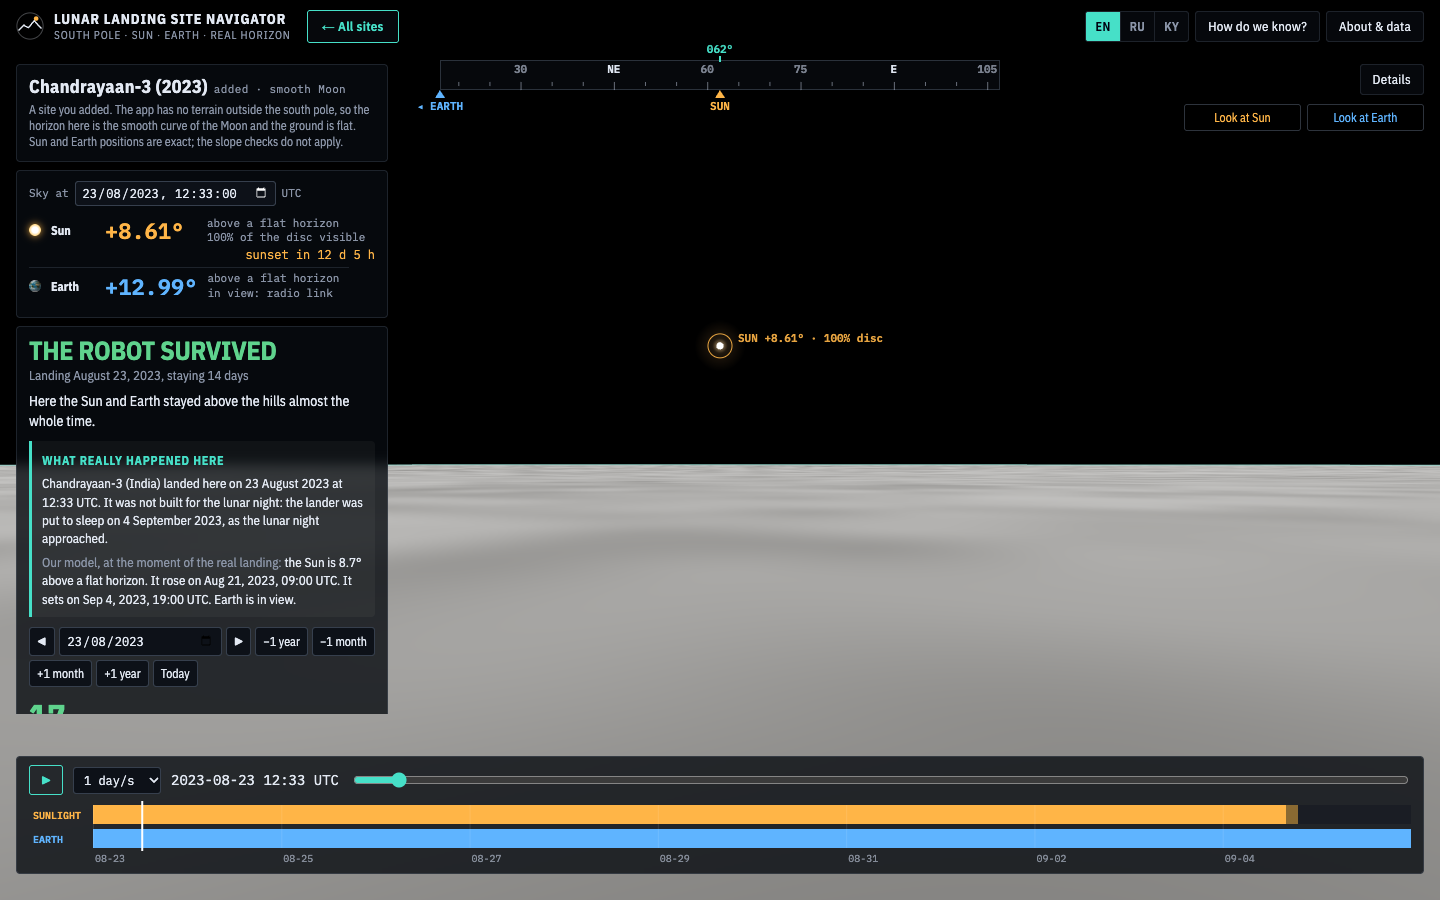
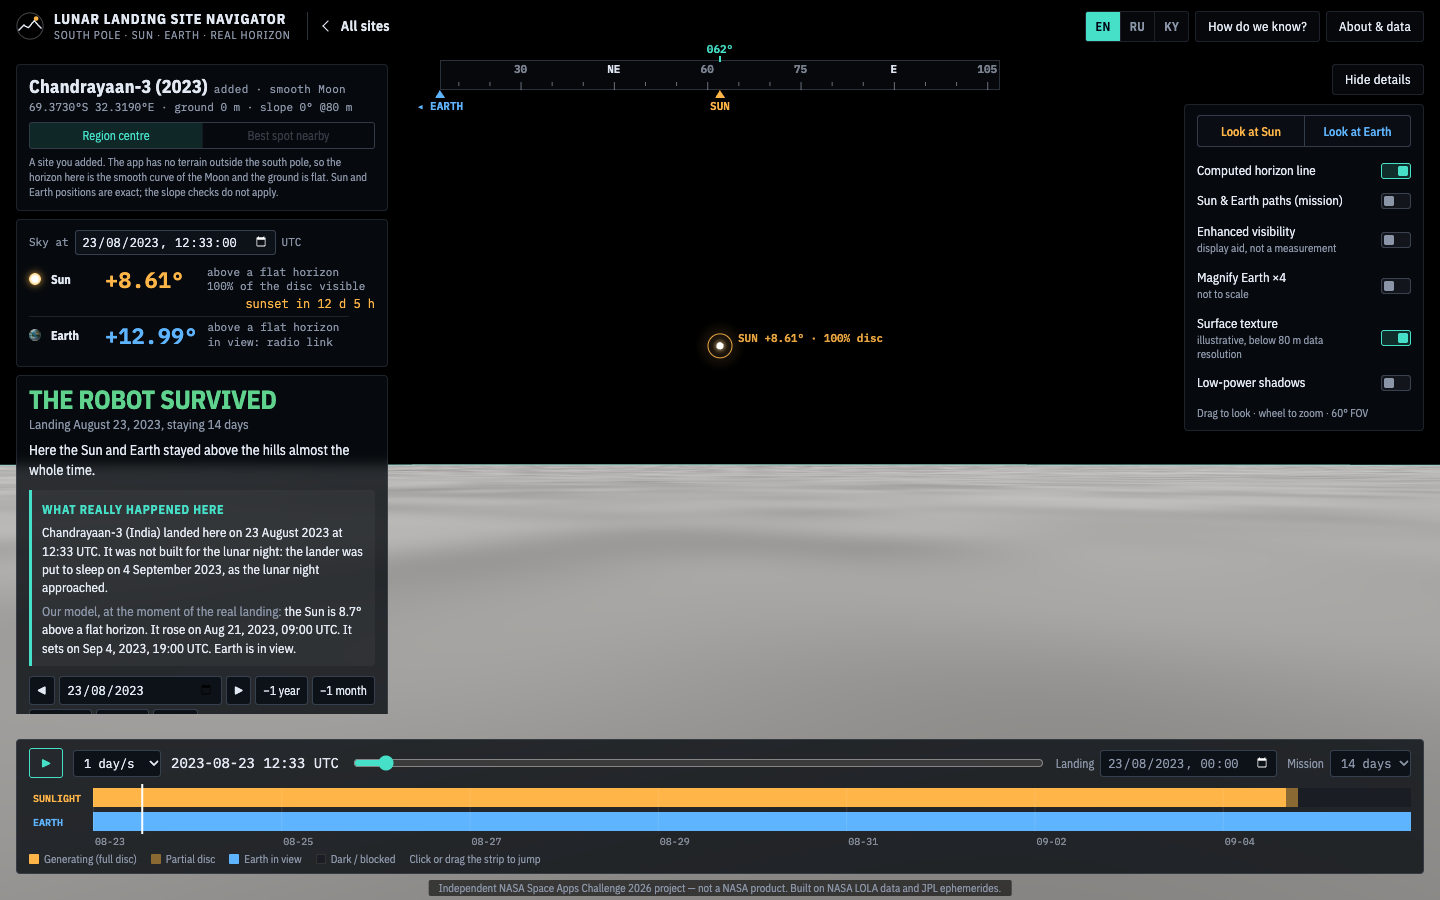
Dots on the Moon follow the day under the time line; details open by default with a close button; view options as switches, plain back control, joined look buttons, focus rings; phone top bar and Details button clear of the dock; smoke checks for both

diff --git a/app/css/app.css b/app/css/app.css
@@ -200,7 +200,7 @@ table.t tr.sub td { color: var(--muted); font-size: 12px; }
 /* ---------- team merge: the answer panel, and a calm default (his full HUD is one "Details" click away) ---------- */
 #hud { width: 372px; max-height: calc(100vh - 250px); overflow: auto; }
 #more { position: fixed; right: 16px; top: 64px; z-index: 30; }
-html.min #viewtools { top: 104px; }
+#viewtools { top: 104px; } /* always under the Details button, open or closed */
 html.min .hud-time, html.min .hb-grid, html.min .coords, html.min #h-variant-note, html.min .tog, html.min .vt-hint, html.min #disclaimer, html.min .legend { display: none !important; }
 html.min #hud .hud-block { padding: 8px 12px; }
 html.min #viewtools { background: none; border: 0; padding: 0; width: 240px; }
@@ -313,7 +313,9 @@ body.mode-surface .skymark { display: none !important; }
 .skymark.sun::before { background: radial-gradient(#fff 40%, #fff3c4 75%); box-shadow: 0 0 10px 2px #fff; }
 .skymark.earth::before { background: url(../data/earth.jpg) 38% 50% / 200% 100%; box-shadow: inset -4px -2px 5px rgba(0,0,0,.65); }
 /* a way back that says where it goes; panels that scroll show it */
-#back { border-color: var(--teal); color: var(--teal); font-weight: 600; padding: 7px 14px; }
+#back { display: inline-flex; align-items: center; gap: 9px; background: none; border: 0; border-left: 1px solid var(--line-2); border-radius: 0; padding: 5px 4px 5px 16px; color: var(--text); font-size: 14px; font-weight: 600; letter-spacing: .02em; white-space: nowrap; transition: color .15s; }
+#back::before { content: ""; width: 7px; height: 7px; border-left: 1.5px solid currentColor; border-bottom: 1.5px solid currentColor; transform: rotate(45deg); transition: transform .15s; }
+#back:hover { background: none; color: var(--teal); } #back:hover::before { transform: translateX(-3px) rotate(45deg); }
 #hud, #sitelist, #panel { scrollbar-width: thin; scrollbar-color: rgba(70,224,200,.7) rgba(255,255,255,.06); }
 #hud { overflow-y: scroll; }
 #hud::-webkit-scrollbar, #sitelist::-webkit-scrollbar { width: 10px; }
@@ -342,3 +344,21 @@ body.mode-surface .skymark { display: none !important; }
 .v-hist b { font-size: 12px; letter-spacing: .06em; text-transform: uppercase; color: var(--teal); }
 .verdict .v-hist p { margin: 6px 0 0; font-size: 13px; } .v-hist .v-model em { font-style: normal; color: var(--muted); }
 .v-hist button { margin-top: 8px; background: #0d1118; color: inherit; border: 1px solid var(--teal); border-radius: 3px; padding: 5px 8px; font: inherit; font-size: 12px; cursor: pointer; }
+
+/* ---------- controls: one shape (3 px corners), one accent (teal) ---------- */
+/* View options are switches, label first: on is a teal block moved to the right, so state reads without the colour. */
+.vt-row { gap: 0; margin-bottom: 6px; border: 1px solid var(--line-2); border-radius: 3px; overflow: hidden; background: var(--panel-solid); }
+.vt-row button { border: 0; border-radius: 0; padding: 7px 4px; font-size: 12.5px; font-weight: 500; }
+.vt-row button + button { border-left: 1px solid var(--line-2); }
+.tog { display: grid; grid-template-columns: 1fr auto; align-items: center; gap: 12px; padding: 4px 0; line-height: 1.25; }
+.tog em { margin-top: 2px; }
+.tog input { order: 2; appearance: none; -webkit-appearance: none; margin: 0; width: 30px; height: 16px; border: 1px solid var(--line-2); border-radius: 3px; background: rgba(150,170,200,.08); position: relative; cursor: pointer; transition: background .15s, border-color .15s; }
+.tog input::before { content: ""; position: absolute; left: 2px; top: 2px; width: 10px; height: 10px; border-radius: 2px; background: var(--muted); transition: transform .15s, background .15s; }
+.tog input:checked { background: rgba(70,224,200,.16); border-color: var(--teal); }
+.tog input:checked::before { transform: translateX(14px); background: var(--teal); }
+.tog:hover input { border-color: var(--teal); }
+button:active { transform: translateY(1px); }
+button:focus-visible, input:focus-visible, select:focus-visible, summary:focus-visible { outline: 2px solid var(--teal); outline-offset: 2px; }
+@media (prefers-reduced-motion: reduce) { .tog input, .tog input::before, #back, #back::before { transition: none; } button:active { transform: none; } }
+/* phone: the way back stays on one line without squeezing the title, and the Details button sits clear above the dock */
+@media (max-width: 760px) { #topbar { gap: 8px; } #back { border-left: 0; padding: 5px 0; font-size: 13px; gap: 6px; } #more { bottom: 262px; } html.min #more { bottom: 192px; } }

diff --git a/app/i18n.js b/app/i18n.js
@@ -50,7 +50,7 @@
     "aTo": "To",
     "aToday": "today",
     "aTitle": "On which landing days does a robot survive?",
-    "aHint": "Click a day to land there. Press play to watch the sunlight move. Drag the Moon to turn it.",
+    "aHint": "Click a day to land there. Press play: the sunlight moves and each dot on the Moon turns green or red for the day under the orange line. Drag the Moon to turn it.",
     "aTip": "One column is one landing day, judged for a 14 day stay with the same checks as on the site. On long periods several days share one pixel and the colour is their mix. Six sites come from the NASA Lunar Surface Data Book. Nine more (marked Team) were picked by the team on NASA LOLA terrain: the best-lit point of a crater rim or the lowest point of a crater floor. Moon: heights times 2. Shadows are cast by the real Sun position on 1.3 km terrain, so they are coarser than the checks, which use 80 m terrain.",
     "calAllOk": "Every later day works too.",
     "calNext": "Next safe landing day: {date}.",
@@ -161,7 +161,7 @@
     "aTo": "По",
     "aToday": "сегодня",
     "aTitle": "В какие дни посадки робот выживает?",
-    "aHint": "Нажмите на день, чтобы сесть там. Кнопка пуска показывает, как движется солнечный свет. Луну можно вращать мышью.",
+    "aHint": "Нажмите на день, чтобы сесть там. Нажмите пуск: солнечный свет движется, а точка каждого места на Луне становится зелёной или красной для дня под оранжевой линией. Луну можно вращать мышью.",
     "aTip": "Один столбец: один день посадки, оценка для 14 дней работы по тем же проверкам, что и на месте. На длинных периодах несколько дней попадают в один пиксель, и цвет показывает их смесь. Шесть мест взяты из NASA Lunar Surface Data Book. Ещё девять (с пометкой Team) выбрала команда по рельефу NASA LOLA: самая освещённая точка вала кратера или самая низкая точка его дна. Карта: высоты увеличены в 2 раза, освещение условное.",
     "calAllOk": "Все следующие дни тоже подходят.",
     "calNext": "Следующий безопасный день посадки: {date}.",
@@ -272,7 +272,7 @@
     "aTo": "Аягы",
     "aToday": "бүгүн",
     "aTitle": "Робот кайсы конуу күндөрүндө аман калат?",
-    "aHint": "Ошол жерге конуу үчүн күндү басыңыз. Ойнотуу баскычы күн нурунун жылышын көрсөтөт. Айды чычкан менен бурса болот.",
+    "aHint": "Ошол жерге конуу үчүн күндү басыңыз. Ойнотууну басыңыз: күн нуру жылат, ал эми Айдагы ар бир жердин чекити кызгылт сары сызыктын астындагы күн үчүн жашыл же кызыл болот. Айды чычкан менен бурса болот.",
     "aTip": "Бир тилке: бир конуу күнү, 14 күндүк иш үчүн ошол эле текшерүүлөр менен бааланат. Узак мезгилде бир пикселге бир нече күн туура келет, түсү алардын аралашмасы. Алты жер NASA Lunar Surface Data Book китебинен алынган. Дагы тогузун (Team белгиси менен) команда NASA LOLA рельефи боюнча тандады: кратер кырынын эң жарык чекити же түбүнүн эң төмөн чекити. Карта: бийиктиктер 2 эсе чоңойтулган, жарык шарттуу.",
     "calAllOk": "Кийинки күндөрдүн баары да жарайт.",
     "calNext": "Кийинки коопсуз конуу күнү: {date}.",

diff --git a/app/src/main.js b/app/src/main.js
@@ -134,7 +134,9 @@ function placePins() {
     const g = p ? overview.project(s.pos, w, h, 0) : null;
     s.el.style.display = p ? '' : 'none';
     const row = globalThis.__all?.rows.find((r) => r.id === s.id);
-    s.st = row && row.good >= 0 ? (row.good > 0 ? 'ok' : 'bad') : ''; // green: at least one safe landing day in the chosen period
+    // The dot is the day under the time line: green when a landing that day survives here, so the dots change as it plays.
+    // With the line outside the period: green for at least one safe landing day in the period.
+    s.st = S.all?.stateAt(s.id, S.mapT) ?? (row && row.good >= 0 ? (row.good > 0 ? 'ok' : 'bad') : '');
     if (s.el.dataset.s !== s.st) s.el.dataset.s = s.st;
     s.el.classList.toggle('hot', S.hot === s.id);
     if (p) items.push({ s, p, g, x: p.x, y: p.y, wd: s.el.offsetWidth || 120 });
@@ -618,8 +620,11 @@ function frame(now) {
     overview.intro();
     const p = new URLSearchParams(location.hash.slice(1));
     // Embedded in the guided mission (team 404 agents merge): start minimal, one button brings every number back.
-    document.documentElement.classList.add('min'); document.documentElement.classList.toggle('embed', p.get('min') === '1'); // embed: inside the guided mission, which shows its own verdict // on <html>: the app replaces body.className
-    $('more').onclick = () => { document.documentElement.classList.toggle('min'); resize(); };
+    // The numbers and view options are open by default and the Details button closes them. Closed on load on a phone
+    // (no room) and when embedded in the guided mission (min=1), which shows its own verdict. On <html>: the app replaces body.className.
+    document.documentElement.classList.toggle('min', p.get('min') === '1' || window.innerWidth <= 760); document.documentElement.classList.toggle('embed', p.get('min') === '1');
+    const moreText = () => { $('more').textContent = document.documentElement.classList.contains('min') ? 'Details' : 'Hide details'; };
+    $('more').onclick = () => { document.documentElement.classList.toggle('min'); moreText(); resize(); }; moreText();
     const landing = p.get('land') ? Date.parse(p.get('land').slice(0, 10) + 'T00:00:00Z') / 1000 : Math.floor(Date.now() / 86400000) * 86400; // default: land today
     S.missionStart = Number.isFinite(landing) ? landing : periodStart();
     S.missionDays = 14; // the survival limits are set for a 14 day stay; "Details" can change it

diff --git a/app/src/allsites.js b/app/src/allsites.js
@@ -168,7 +168,7 @@ export function allSites(root, { sites, days, p0, p1, onPick, onHover = () => {}
     }
     // Best site for the chosen period first. Only once every row is known, so rows do not jump while loading.
     if (st.ready) for (const s of [...sites].sort((p, q) => q.good - p.good)) ol.appendChild(s.li);
-    globalThis.__all = { ready: st.ready, a: st.a, b: st.b, from: from.value, to: to.value, rows: sites.map((s) => ({ id: s.id, good: s.good, total: st.b - st.a })),
+    globalThis.__all = { ready: st.ready, a: st.a, b: st.b, from: from.value, to: to.value, rows: sites.map((s) => ({ id: s.id, good: s.v ? s.good : -1 /* not judged yet: its dot stays grey, not red */, total: st.b - st.a })),
       at: (id, date) => sites.find((s) => s.id === id).v[dayOf(date)] === 0 /* does a landing that day survive: what the cell's colour says */ };
   }
   const setRange = () => {
@@ -232,5 +232,7 @@ export function allSites(root, { sites, days, p0, p1, onPick, onHover = () => {}
     if (clock.textContent !== txt) clock.textContent = txt;
     play.textContent = playing ? '❚❚' : '▶'; play.title = L('aPlay');
   }
-  return { redraw, setHead, setLimits, add, add, range: () => [p0 + st.a * DAY, p0 + st.b * DAY] };
+  /** 'ok' or 'bad': does a landing on the day holding t (unix s) survive at this site. null outside the period or before the row is known. */
+  const stateAt = (id, t) => { const s = sites.find((x) => x.id === id), d = Math.floor((t - p0) / DAY); return s && s.v && d >= st.a && d < st.b ? (s.v[d] === 0 ? 'ok' : 'bad') : null; };
+  return { redraw, setHead, setLimits, add, stateAt, range: () => [p0 + st.a * DAY, p0 + st.b * DAY] };
 }

diff --git a/app/index.html b/app/index.html
@@ -25,7 +25,7 @@
       <div class="sub">South pole · Sun · Earth · real horizon</div>
     </div>
   </div>
-  <button id="back" class="ghost surface-only" title="Back to the Moon with all sites">← All sites</button>
+  <button id="back" class="ghost surface-only" title="Back to the Moon with all sites">All sites</button>
   <nav>
     <div id="lang" role="group" aria-label="Language"></div>
     <button data-panel="validation">How do we know?</button>
